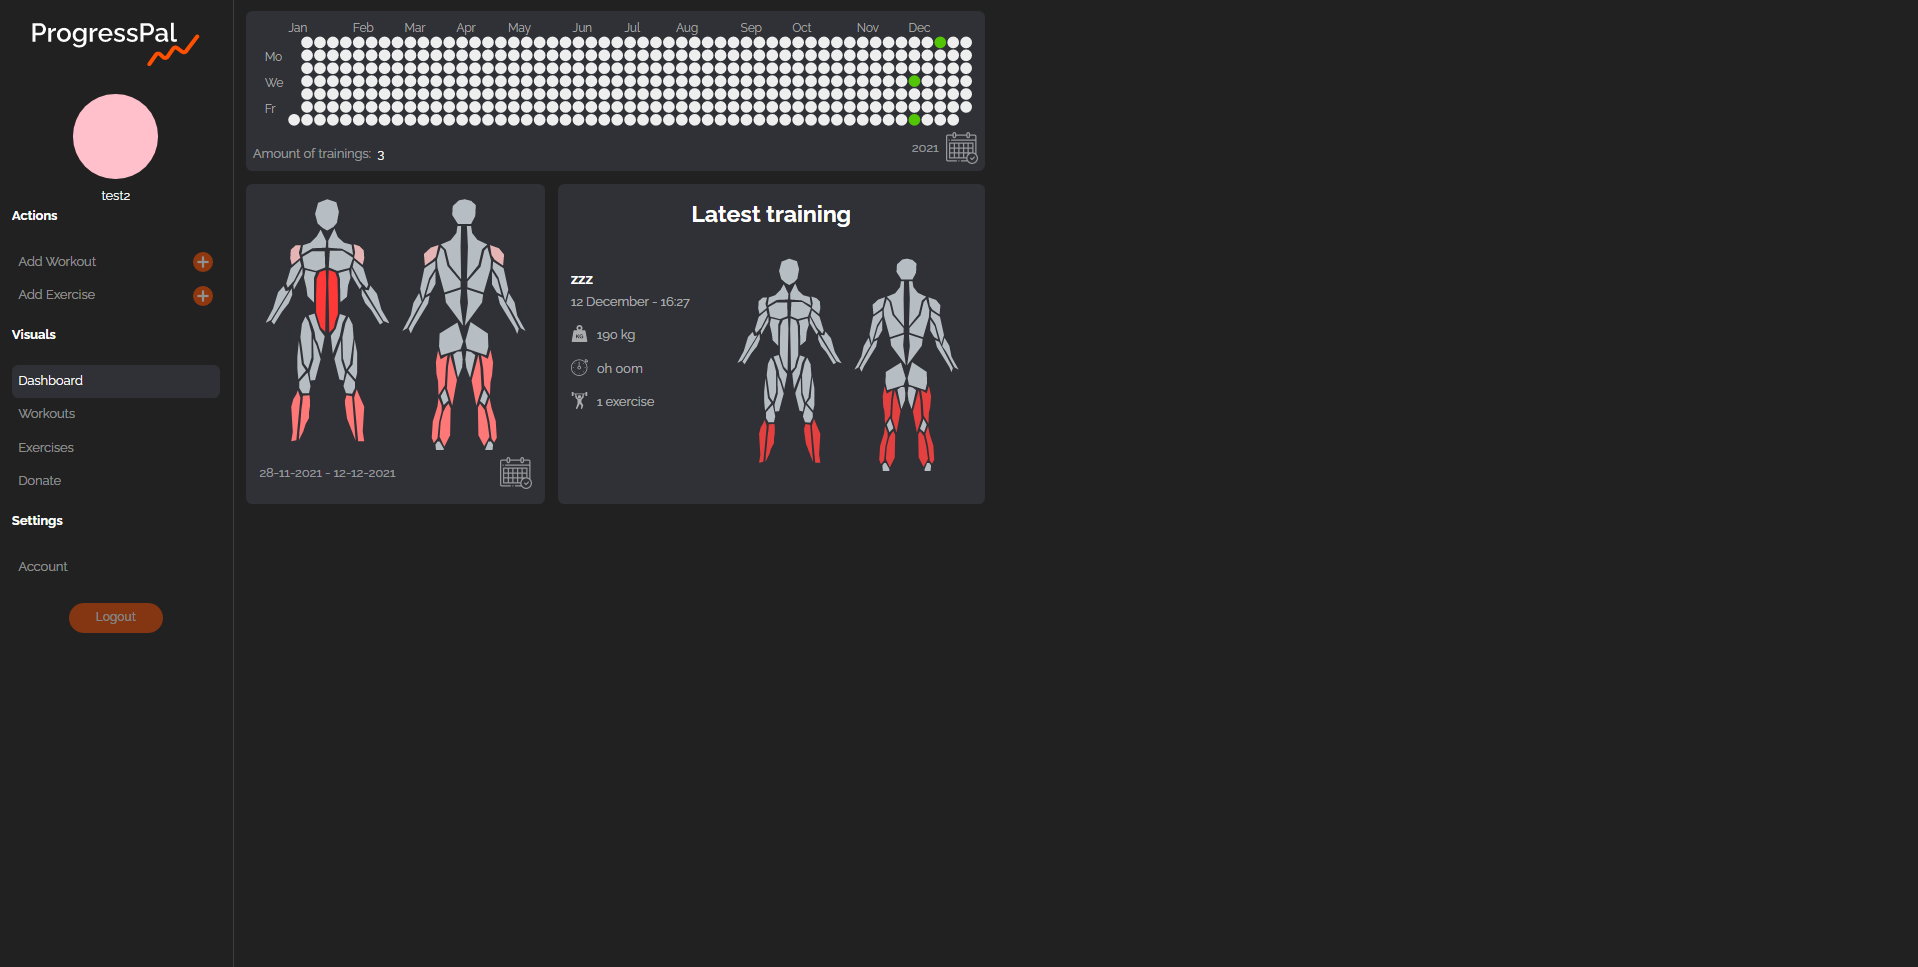
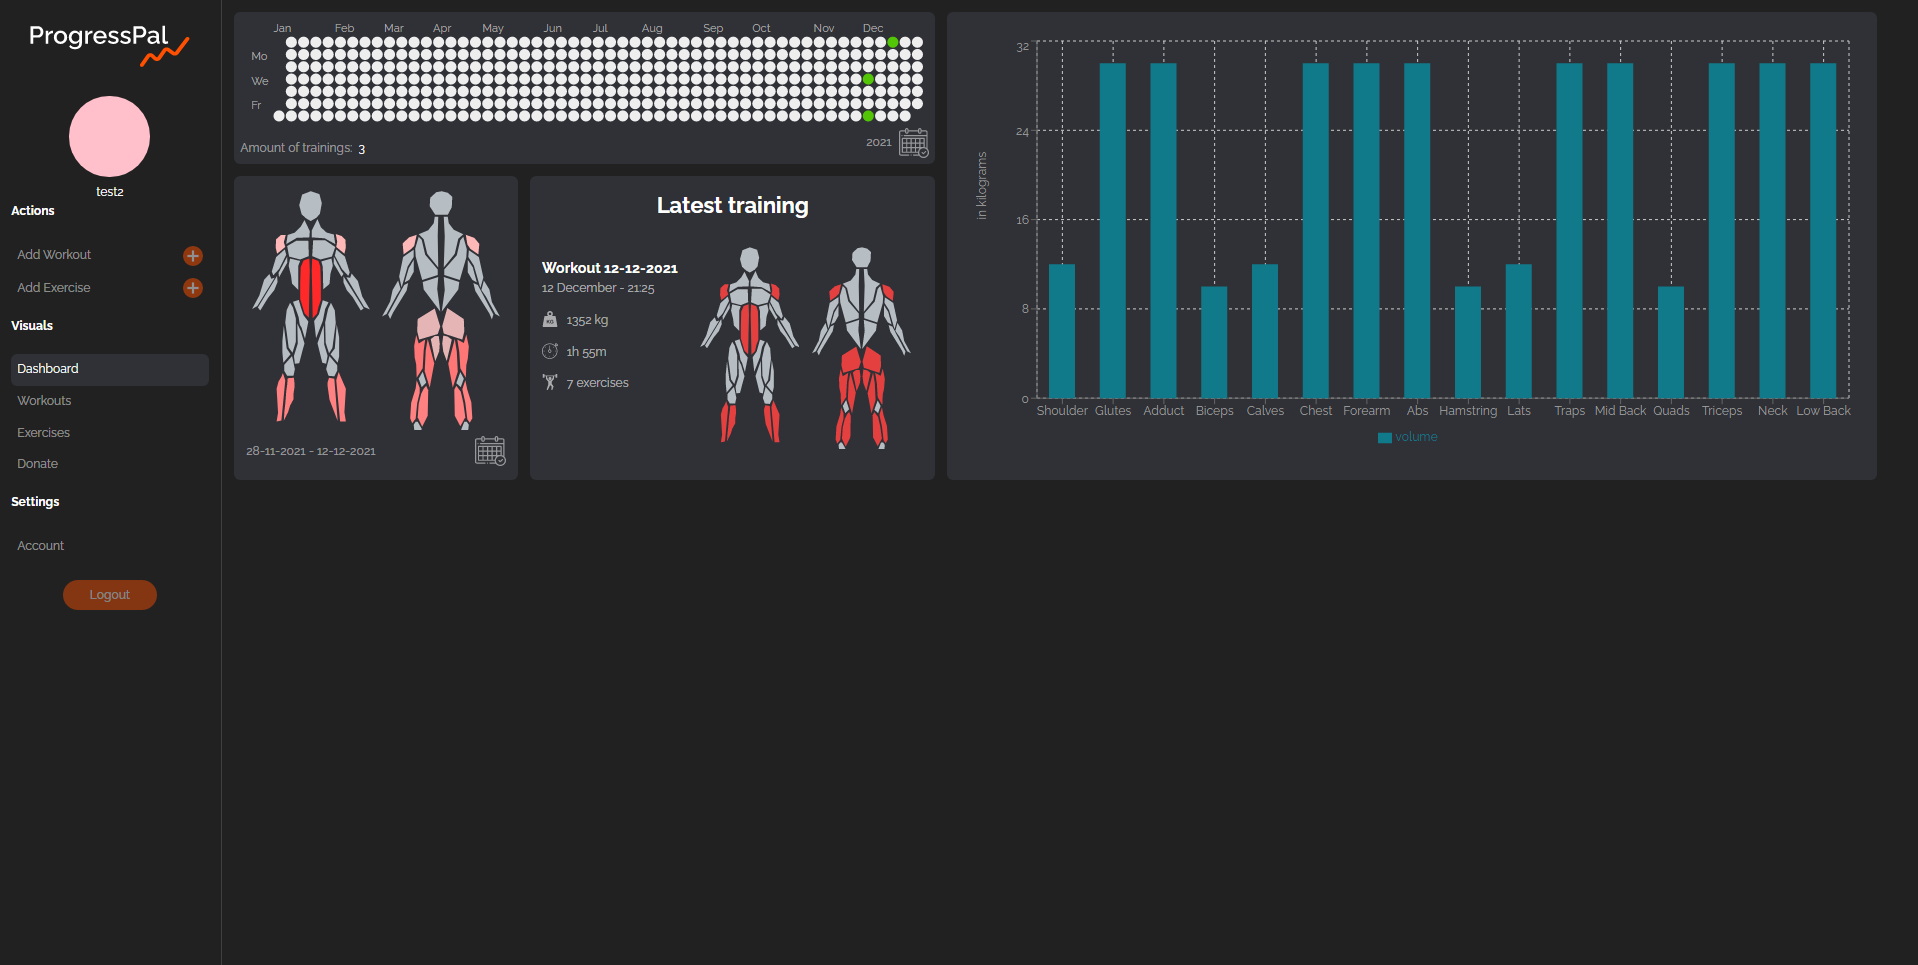
feature: MuscleBar Chart mock

diff --git a/web/src/components/Charts/MuscleBarChart/MuscleBarChart.tsx b/web/src/components/Charts/MuscleBarChart/MuscleBarChart.tsx
@@ -1,0 +1,112 @@
+import React, { useState } from "react";
+import {
+  Bar,
+  BarChart,
+  CartesianGrid,
+  Legend,
+  ResponsiveContainer,
+  Tooltip,
+  XAxis,
+  YAxis,
+} from "recharts";
+import theme from "../../../theme/theme";
+import Loader from "../../UI/Loader/Loader";
+import { chartSize } from "../consts";
+import { getStrokeColor } from "../strokeColors";
+import { LoaderWrapper } from "../styles";
+import { Wrapper } from "./styles";
+
+interface MuscleBarChartProps {
+  data: any;
+}
+
+const muscles = [
+  "Abdominals",
+  "Adductors",
+  "Biceps",
+  "Calves",
+  "Chest",
+  "Forearms",
+  "Glutes",
+  "Hamstrings",
+  "Lats",
+  "Lower Back",
+  "Middle Back",
+  "Neck",
+  "Quadriceps",
+  "Shoulders",
+  "Traps",
+  "Triceps",
+];
+
+const mockData = [
+  { volume: 12, name: "Shoulder" },
+  { volume: 30, name: "Glutes" },
+  { volume: 30, name: "Adduct" },
+  { volume: 10, name: "Biceps" },
+  { volume: 12, name: "Calves" },
+  { volume: 30, name: "Chest" },
+  { volume: 30, name: "Forearm" },
+  { volume: 30, name: "Abs" },
+  { volume: 10, name: "Hamstring" },
+  { volume: 12, name: "Lats" },
+  { volume: 30, name: "Traps" },
+  { volume: 30, name: "Mid Back" },
+  { volume: 10, name: "Quads" },
+  { volume: 30, name: "Triceps" },
+  { volume: 30, name: "Neck" },
+  { volume: 30, name: "Low Back" },
+];
+
+const MuscleBarChart: React.FC<MuscleBarChartProps> = ({ data }) => {
+  const [size, setSize] = useState({ ...chartSize.DESKTOP });
+
+  if (!data) {
+    return (
+      <LoaderWrapper width={size.WIDTH} height={size.HEIGHT}>
+        <Loader />
+      </LoaderWrapper>
+    );
+  }
+
+  return (
+    <Wrapper width="930">
+      <ResponsiveContainer height="99%">
+        <BarChart data={mockData}>
+          <CartesianGrid strokeDasharray="3 3" />
+          <XAxis dataKey="name" fill="#fff" />
+          <YAxis
+            label={{
+              value: "in kilograms",
+              angle: -90,
+              position: "insideLeft",
+              fill: "#9b9b9b",
+            }}
+          />
+          <Legend />
+          <Tooltip
+            contentStyle={{
+              borderRadius: "0.5em",
+              padding: "0.5em 3em",
+              backgroundColor: theme.colors.backgroundGray,
+              borderColor: theme.colors.grayText,
+              fontWeight: "bolder",
+            }}
+            labelStyle={{
+              display: "flex",
+              alignSelf: "start",
+              order: 1,
+              textAlign: "center",
+              fontSize: "1.75rem",
+            }}
+            formatter={(value: number) => {
+              return [`${value} kg`, `Volume`];
+            }}
+          />
+          <Bar dataKey={"volume"} fill={getStrokeColor(13)} barSize={26} />
+        </BarChart>
+      </ResponsiveContainer>
+    </Wrapper>
+  );
+};
+export default MuscleBarChart;

diff --git a/web/src/pages/Home/Dashboard/Dashboard.tsx b/web/src/pages/Home/Dashboard/Dashboard.tsx
@@ -1,6 +1,8 @@
 import moment from "moment";
 import React, { useEffect, useState } from "react";
 import { useDispatch, useSelector } from "react-redux";
+import MuscleBarChart from "../../../components/Charts/MuscleBarChart/MuscleBarChart";
+import { FlexWrapperDiv } from "../../../components/FlexElements";
 import MuscleHeatmapModel from "../../../components/UI/MuscleHeatmapModel/MuscleHeatmapModel";
 import WorkoutCard from "../../../components/UI/WorkoutsList/WorkoutCard/WorkoutCard";
 import YearlyCalendarHeatmap from "../../../components/UI/YearlyCalendarHeatmap/YearlyCalendarHeatmap";
@@ -16,7 +18,7 @@ import { RightContent } from "../../../hoc/styles";
 import { useWindowResize } from "../../../hooks/useWindowResize";
 import * as navActions from "../../../redux/dashboardNavbar/dashboardNavbarActions";
 import { AppState } from "../../../redux/rootReducer";
-import { Row } from "./styles";
+import { RightContentWrapper, Row } from "./styles";
 
 interface DashboardProps {
   user: MeQuery["me"] | undefined;
@@ -72,22 +74,29 @@ const Dashboard: React.FC<DashboardProps> = ({ user }) => {
   return (
     <DashbordLayoutHOC user={user}>
       <RightContent open={open}>
-        <YearlyCalendarHeatmap
-          endDate={endDate}
-          loadingCalendarData={loadingCalendarData}
-          getAllUserYearlyWorkoutData={getAllUserYearlyWorkoutData}
-          setEndDate={setEndDate}
-          setStartDate={setStartDate}
-          startDate={startDate}
-          values={calendarData?.getUserYearlyWorkoutData}
-        />
-        <Row>
-          <MuscleHeatmapModel />
-          <WorkoutCard
-            workout={userLastWorkout?.getUserLastWorkout as Workout}
-            dashboardLayout
-          />
-        </Row>
+        <RightContentWrapper>
+          <FlexWrapperDiv flexDirection="row">
+            <FlexWrapperDiv flexDirection="column">
+              <YearlyCalendarHeatmap
+                endDate={endDate}
+                loadingCalendarData={loadingCalendarData}
+                getAllUserYearlyWorkoutData={getAllUserYearlyWorkoutData}
+                setEndDate={setEndDate}
+                setStartDate={setStartDate}
+                startDate={startDate}
+                values={calendarData?.getUserYearlyWorkoutData}
+              />
+              <Row>
+                <MuscleHeatmapModel />
+                <WorkoutCard
+                  workout={userLastWorkout?.getUserLastWorkout as Workout}
+                  dashboardLayout
+                />
+              </Row>
+            </FlexWrapperDiv>
+            <MuscleBarChart data={[]} />
+          </FlexWrapperDiv>
+        </RightContentWrapper>
       </RightContent>
     </DashbordLayoutHOC>
   );

diff --git a/web/src/components/Charts/MuscleBarChart/styles/index.ts b/web/src/components/Charts/MuscleBarChart/styles/index.ts
@@ -1,0 +1,22 @@
+import styled from "styled-components/macro";
+
+export const Wrapper = styled.div<{ width: string }>`
+  background-color: ${({ theme }) => theme.colors.backgroundGray};
+  padding: 2em;
+  max-width: ${({ width }) => `${width}px`};
+  width: 100%;
+  margin-left: 1em;
+  border-radius: 0.5em;
+
+  tspan {
+    fill: #9b9b9b;
+  }
+
+  @media screen and (max-width: 1800px) {
+    margin: 1em 0;
+  }
+
+  @media screen and (max-width: 764px) {
+    height: 36em;
+  }
+`;

diff --git a/web/src/components/Charts/MaxWeightChart/MaxWeightChart.tsx b/web/src/components/Charts/MaxWeightChart/MaxWeightChart.tsx
@@ -12,8 +12,7 @@ import theme from "../../../theme/theme";
 import { Heading } from "../../UI";
 import Loader from "../../UI/Loader/Loader";
 import { chartSize } from "../consts";
-import { getStrokeColor } from "../strokeColors";
-import { LoaderWrapper, NoData, Wrapper } from "../styles";
+import { LoaderWrapper, Wrapper } from "../styles";
 import {} from "./styles";
 
 interface MaxWeightChartProps {

diff --git a/web/src/components/Charts/WeightSetChart/WeightSetChart.tsx b/web/src/components/Charts/WeightSetChart/WeightSetChart.tsx
@@ -17,7 +17,7 @@ import { Heading } from "../../UI";
 import Loader from "../../UI/Loader/Loader";
 import { chartSize } from "../consts";
 import { getStrokeColor } from "../strokeColors";
-import { LoaderWrapper, NoData, Wrapper } from "../styles";
+import { LoaderWrapper, Wrapper } from "../styles";
 
 interface WeightSetChartProps {
   data: [

diff --git a/web/src/pages/Home/Dashboard/styles/index.ts b/web/src/pages/Home/Dashboard/styles/index.ts
@@ -74,4 +74,11 @@ export const NavListItem = styled.li<{ selected?: boolean }>`
   }
 `;
 
-export const RightContentWrapper = styled.div``;
+export const RightContentWrapper = styled.div`
+  @media screen and (max-width: 1880px) {
+    > div {
+      display: flex;
+      flex-direction: column;
+    }
+  }
+`;

diff --git a/web/src/theme/global.ts b/web/src/theme/global.ts
@@ -102,7 +102,7 @@ select {
 }
 html{
   height: -webkit-fill-available;
-  font-size: 80%;
+  font-size: 76%;
   box-sizing: border-box;
 
   @media ${props => props.theme.mediaQueries.phones} {
